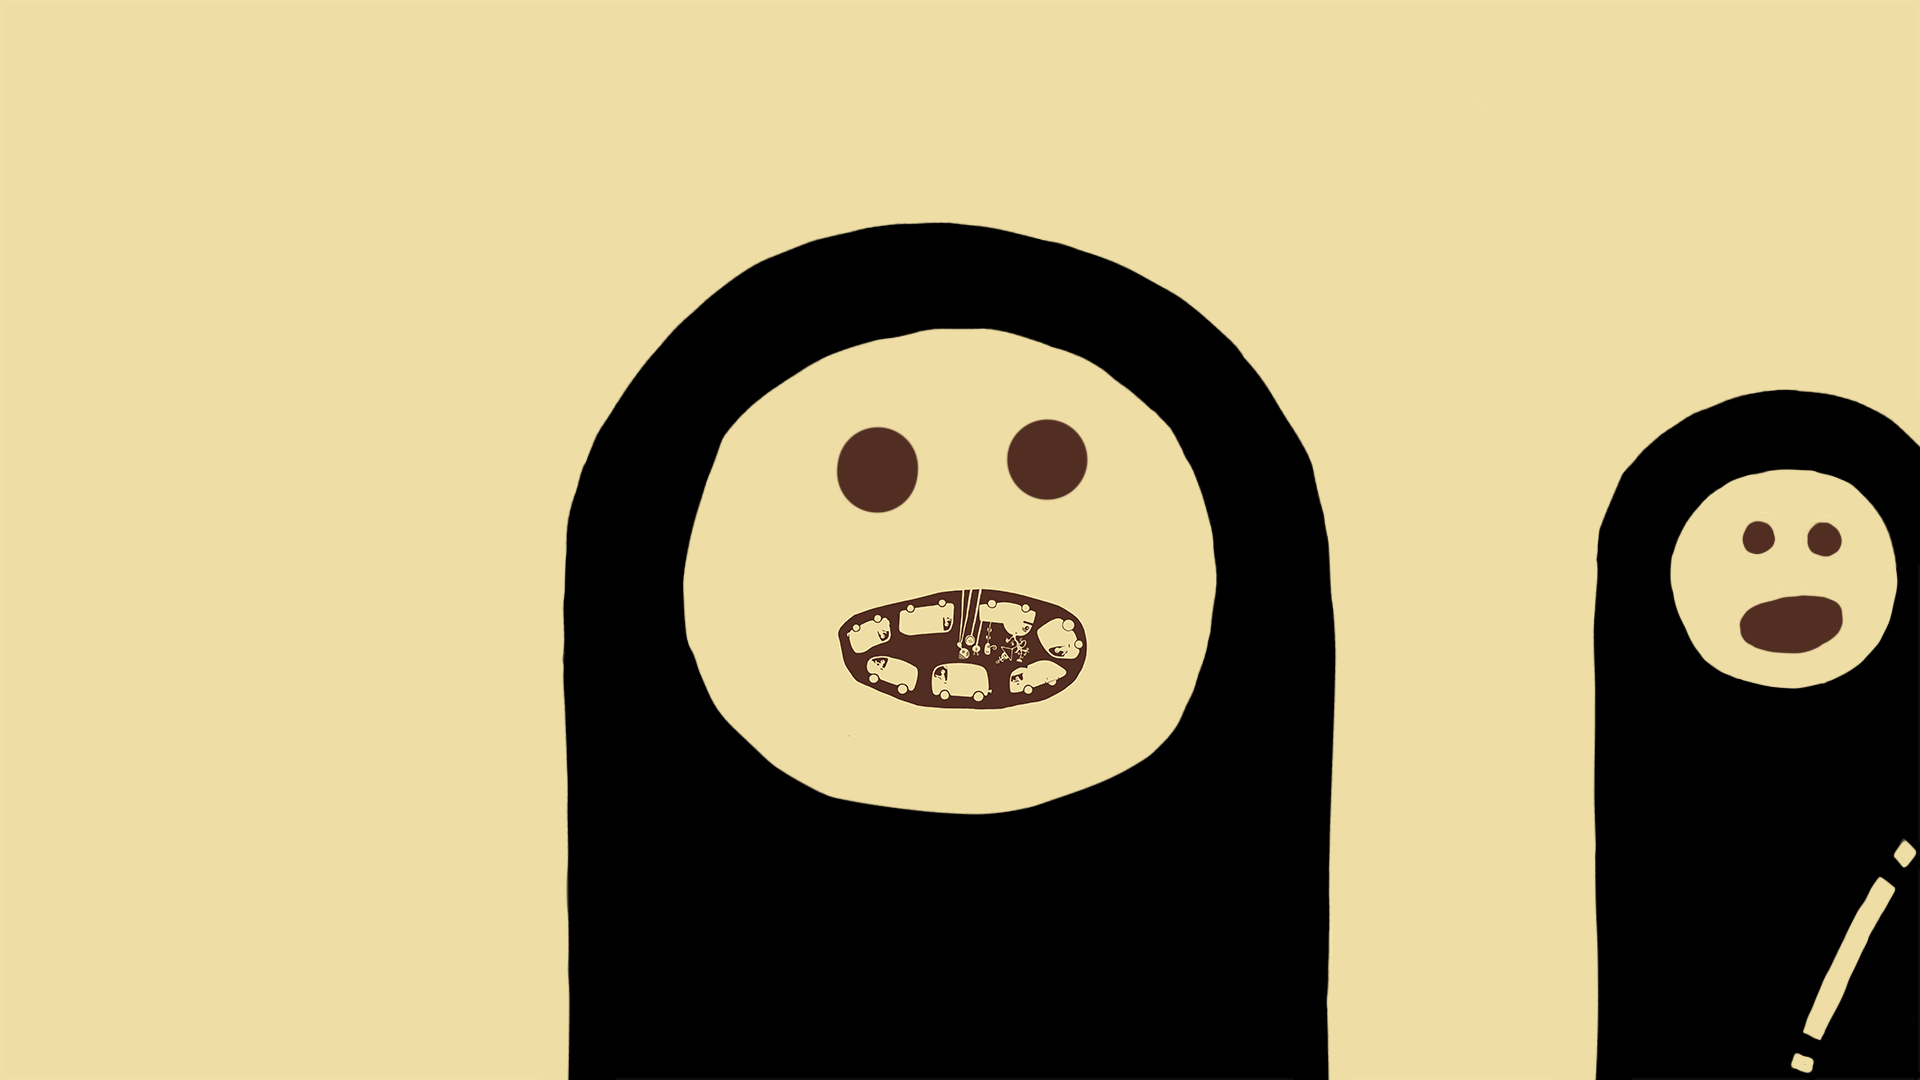
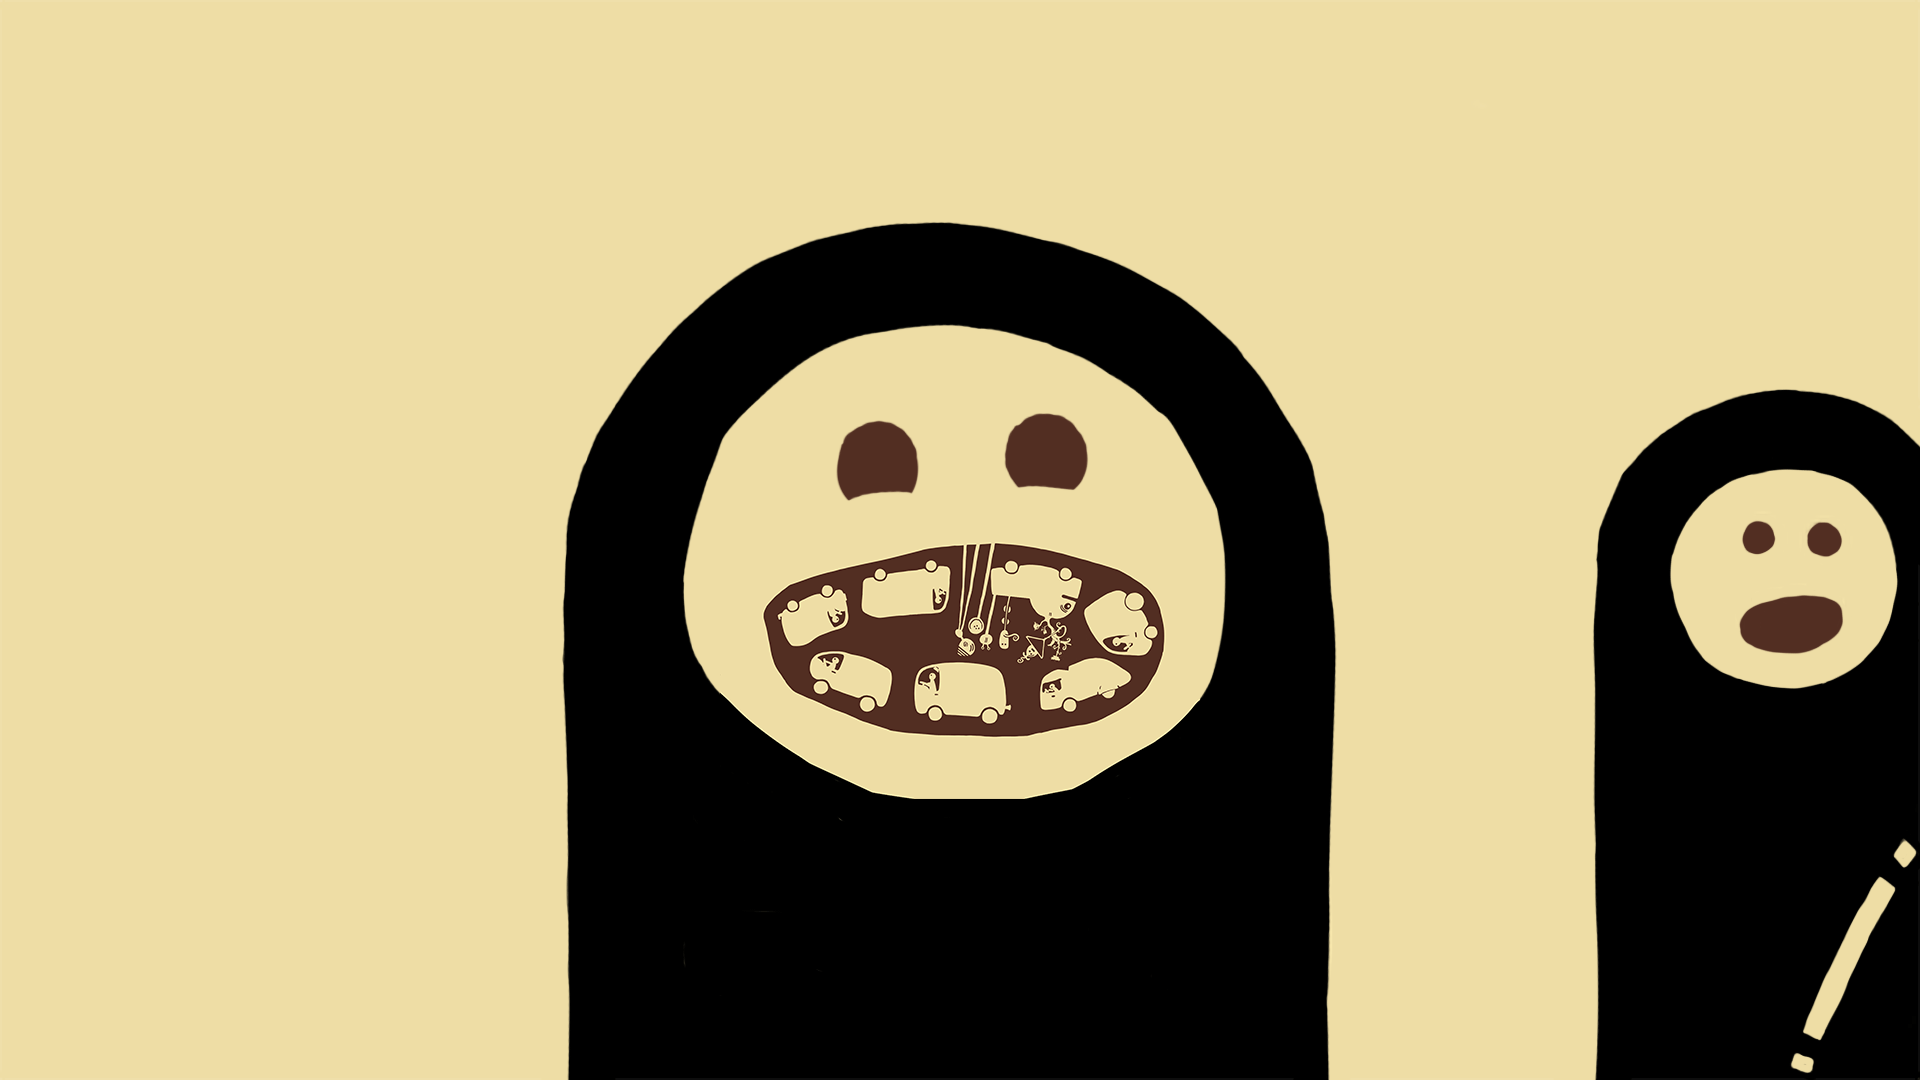
Work on intro and others

diff --git a/src/bgpatternNode.js b/src/bgpatternNode.js
@@ -10,12 +10,57 @@
       };
       super(id, options);
       this.throb = 0;
+      this.zoomThrob = 0;
     }
 
     update(frame) {
       this.throb *= 0.95;
       if(BEAT && BEAN % 48 == 24) {
         this.throb = 1;
+      }
+      this.zoomThrob *= 0.95;
+      if(BEAT) {
+        switch(BEAN) {
+          case 192:
+          case 288:
+          case 372:
+          case 384:
+            this.zoomThrob = 1;
+        }
+
+        if(BEAN >= 576) {
+          if(BEAN % 48 == 24) {
+              this.zoomThrob = 5;
+          }
+        }
+        /*
+        if(BEAN >= 576) {
+          switch(BEAN % (96 * 2)) {
+            case 0:
+            case 24 - 4:
+            case 24 + 6:
+            case 24 + 8:
+            case 48 - 4:
+            case 48:
+            case 48 + 8:
+            case 48 + 24 - 4:
+            case 48 + 24 + 8:
+            case 96:
+            case 96 + 24 - 4:
+            case 96 + 24 + 8:
+            case 48 * 3 - 4:
+            case 48 * 3:
+            case 48 * 3 + 8:
+            case 48 * 3 + 24 - 4:
+            case 48 * 3 + 24:
+            case 48 * 3 + 24 + 8:
+            case 48 * 3 + 24 + 12:
+            case 48 * 3 + 24 + 12 + 8:
+              this.zoomThrob = 2;
+
+          }
+        }
+        */
       }
       this.uniforms.frame.value = frame;
       this.uniforms.tDiffuse.value = this.inputs.texture.getValue();
@@ -24,6 +69,7 @@
       this.uniforms.x.value = this.inputs.x.getValue();
       this.uniforms.y.value = this.inputs.y.getValue();
       this.uniforms.throb.value = this.throb;
+      this.uniforms.zoomThrob.value = this.zoomThrob;
     }
   }
 

diff --git a/src/yo.js b/src/yo.js
@@ -232,7 +232,7 @@
 
         const mesh = new THREE.Mesh(
           geometry,
-          new THREE.MeshBasicMaterial({map: scene.texture.getValue()}));
+          new THREE.MeshBasicMaterial({map: scene.texture.getValue(), transparent: true}));
         const rotated = rotatePoint({x: x, y: y}, -accumulatedPreviousRotation, {x: 0, y: 0});
         mesh.position.x = rotated.x;
         mesh.position.y = rotated.y;
@@ -283,7 +283,11 @@
         scene.container.visible = false;
       }
 
-      this.progress = Math.max(frame - 368, 368) / 60 / 60 * PROJECT.music.bpm / 4 / 4;
+      this.progress = Math.max(frame - 737, 368) / 60 / 60 * PROJECT.music.bpm / 4 / 4;
+      this.progress += easeIn(0, 0.25, F(frame, 384 - 48, 48 * 5));
+
+      this.progress += easeIn(0, 0.5 + 1.75, F(frame, 576 - 48 * 3, 48 * 3));
+
       const currentScene = this.scenes[this.progress | 0];
       currentScene.texture.enabled = true;
       currentScene.container.visible = true;

diff --git a/src/starsky2Node.js b/src/starsky2Node.js
@@ -1,0 +1,17 @@
+(function (global) {
+  class starsky2Node extends NIN.ShaderNode {
+    constructor(id, options) {
+      options.inputs = {
+        background: new NIN.TextureInput(),
+      };
+      super(id, options);
+    }
+
+    update(frame) {
+      this.uniforms.frame.value = frame;
+      this.uniforms.background.value = this.inputs.background.getValue();
+    }
+  }
+
+  global.starsky2Node = starsky2Node;
+})(this);
